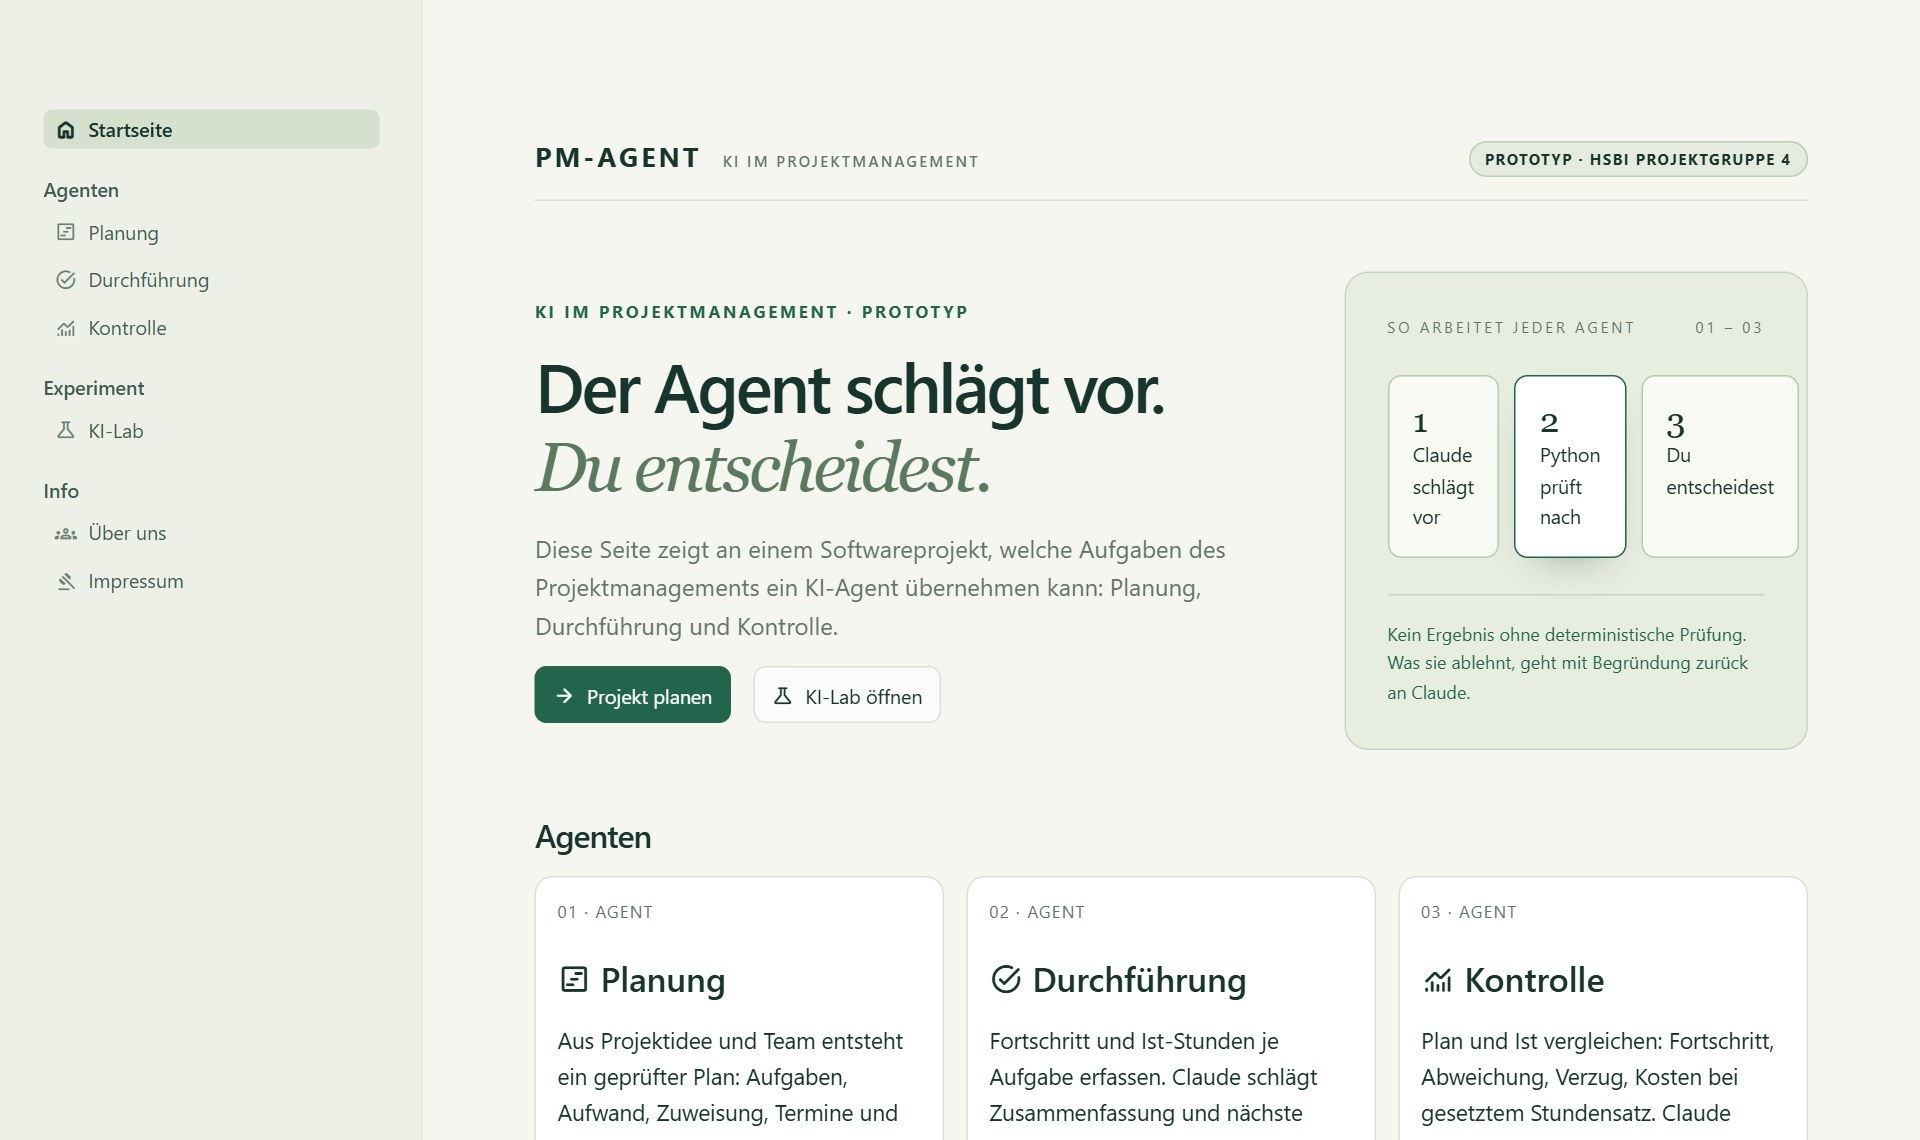
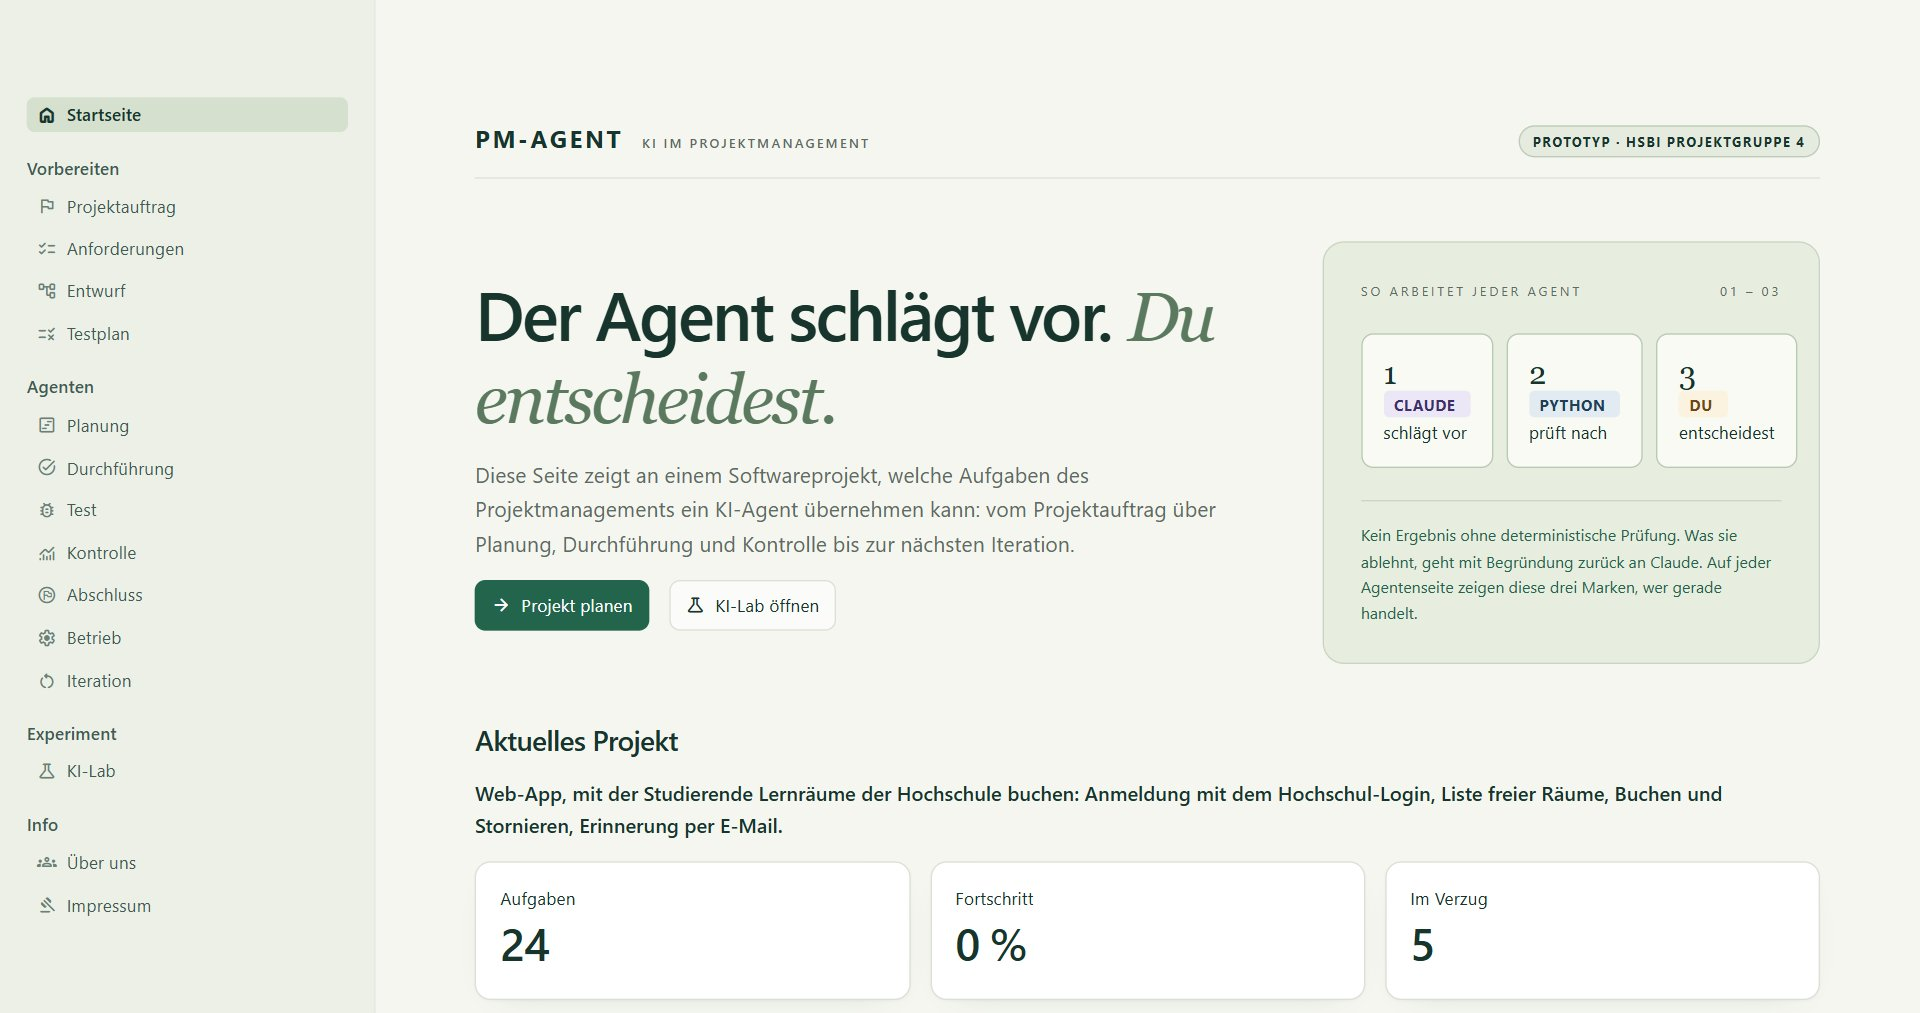
docs: README with the current state and new screenshots
- "Stand und Grenzen" said planning was the only agent run against the
  real API; on 18.11.2026 all agents ran once without error. Only the
  absence a wish names (set_absence) has not run live.
- The menu, the folder table and "Worum es geht" named three agents;
  the site has all eleven steps from Projektauftrag to Iteration.
- Screenshots retaken from the polished site (19.11.2026), alt texts
  and the numbers in the text follow them. The tour GIF showed the old
  three-agent menu and is removed; no new recording was made.
- Kontrolle: "Ein Lauf ist ein Aufruf eines der drei Agenten" now says
  "eines Agenten"; the table counts all of them.

diff --git a/04-Prototyp/pm_agent/views/kontrolle.py b/04-Prototyp/pm_agent/views/kontrolle.py
@@ -557,7 +557,7 @@ with st.container(border=True, key="panel-effort"):
     if runs:
         st.dataframe(pd.DataFrame(runs), hide_index=True)
         st.caption(
-            "Ein Lauf ist ein Aufruf eines der drei Agenten. Token-Kosten in Euro werden nicht "
+            "Ein Lauf ist ein Aufruf eines Agenten. Token-Kosten in Euro werden nicht "
             "berechnet: Preise sind in der Anwendung nicht hinterlegt."
         )
     else:

diff --git a/README.md b/README.md
@@ -18,7 +18,7 @@ Claude schlägt vor. Python prüft nach. Die Projektleitung entscheidet.
 [Schnellstart](#schnellstart) ·
 [Stand und Grenzen](#stand-und-grenzen)
 
-<img src="04-Prototyp/pm_agent/assets/screenshots/startseite.jpg" width="900" alt="Startseite der Website: Überschrift „Der Agent schlägt vor. Du entscheidest.“, daneben die drei Schritte Claude schlägt vor, Python prüft nach, Du entscheidest">
+<img src="04-Prototyp/pm_agent/assets/screenshots/startseite.jpg" width="900" alt="Startseite der Website: links das Menü mit Vorbereiten, Agenten, Experiment und Info, Überschrift „Der Agent schlägt vor. Du entscheidest.“, daneben die drei Schritte Claude schlägt vor, Python prüft nach, Du entscheidest; darunter das aktuelle Projekt mit 24 Aufgaben, 0 % Fortschritt und 5 im Verzug">
 
 </div>
 
@@ -36,6 +36,9 @@ und wo er es nicht sollte:
   Termine und Risiken ableiten.
 - **Durchführung:** den Stand zusammenfassen und nächste Schritte vorschlagen.
 - **Kontrolle:** Plan und Ist vergleichen, Verzug bewerten, Gegenmaßnahmen vorschlagen.
+- **Davor und danach:** Projektauftrag, Anforderungen, Entwurf und Testplan vor der Planung;
+  Test, Abschluss mit Lessons Learned, Betrieb und der nächste Durchlauf danach. Jeder Schritt
+  folgt demselben Muster wie die Planung.
 - **Experiment:** im KI-Lab dieselbe Art von Planungsaufgabe einmal ohne und einmal mit
   KI-Hilfe bearbeiten, mit Zeitlimit und Protokoll.
 
@@ -85,16 +88,12 @@ Ausgabe-Token, Modell `claude-opus-5-5`. Projekt (Web-App zum Buchen von Lernrä
 
 ## Die Website
 
-Eine Streamlit-Anwendung mit dem Menü Startseite, Agenten (Planung, Durchführung, Kontrolle),
-KI-Lab, Über uns und Impressum. Sie läuft nur auf dem eigenen Rechner.
-
-<div align="center">
-<img src="04-Prototyp/pm_agent/assets/screenshots/rundgang.gif" width="820" alt="Rundgang durch die laufende Website in 40 Sekunden: Startseite mit den drei Agenten, Planung mit einem geöffneten protokollierten Lauf, Terminplan als Gantt-Diagramm und eine Aufgabe im Detail, Durchführung mit den nächsten fünf Arbeitstagen, Kontrolle mit Prognose und Earned Value">
-</div>
-
-<sub>Rundgang in 40 Sekunden, aufgenommen aus der laufenden Website mit dem Beispielprojekt:
-Startseite, Planung mit einem protokollierten Lauf, Durchführung, Kontrolle. Ein neuer Lauf mit
-Claude ist nicht dabei; den zeigt der Abschnitt „Ein echter Lauf“.</sub>
+Eine Streamlit-Anwendung, die nur auf dem eigenen Rechner läuft. Das Menü folgt dem Ablauf eines
+Softwareprojekts: Startseite; Vorbereiten (Projektauftrag, Anforderungen, Entwurf, Testplan);
+Agenten (Planung, Durchführung, Test, Kontrolle, Abschluss, Betrieb, Iteration); Experiment
+(KI-Lab); Info (Über uns, Impressum). Über jeder dieser Seiten steht der Projektpfad mit allen
+elf Schritten und darunter, was als Nächstes zu tun ist. Die Screenshots zeigen das erfundene
+Beispielprojekt vom 19.11.2026.
 
 ### Planung
 
@@ -140,7 +139,7 @@ geben, der den verlangten Skill hat, oder durchspielen, was passiert, wenn die l
 auf dem kritischen Pfad doppelt so lange dauert.
 
 <div align="center">
-<img src="04-Prototyp/pm_agent/assets/screenshots/planung-gespraech.jpg" width="820" alt="Schritt Anpassen: oben das Feld „Mit Claude ändern“ mit einem vorgeschlagenen Wunsch und der Eingabezeile, darunter die Tabelle zum Ändern von Hand">
+<img src="04-Prototyp/pm_agent/assets/screenshots/planung-gespraech.jpg" width="820" alt="Schritt Anpassen: Bereich „Mit Claude ändern“ mit den Rollen Claude, Python und Du, einem aus der Prüfung vorgeschlagenen Wunsch als Schaltfläche und der Eingabezeile">
 </div>
 
 ### Durchführung und Kontrolle
@@ -154,13 +153,13 @@ Verzug behandelt.
 
 Die Kontrolle sagt auch, was ein Verzug bedeutet. Die **Prognose** plant alles, was noch nicht
 fertig ist, ab heute neu ein und vergleicht das Ende mit Plan und Deadline. Im Beispiel unten
-sind zwei Aufgaben ein bis zwei Tage im Verzug; die Folge ist ein Ende vier Arbeitstage nach
-Plan und einen Tag nach der Deadline. Die Fortschrittstabelle der Durchführung zeigt dasselbe je
+ist noch kein Fortschritt erfasst, fünf Aufgaben sind über ihr geplantes Ende; die Folge ist ein
+Ende acht Arbeitstage nach Plan und sechs Arbeitstage nach der Deadline. Die Fortschrittstabelle der Durchführung zeigt dasselbe je
 Aufgabe: „Prognose Ende“ neben dem geplanten Ende. Darüber steht, was daraus für die Woche folgt:
 wer in den nächsten fünf Arbeitstagen womit beginnt.
 
 <div align="center">
-<img src="04-Prototyp/pm_agent/assets/screenshots/durchfuehrung.jpg" width="820" alt="Seite Durchführung: Marken „1 von 18 Aufgaben fertig“, „0 in Arbeit“, „2 im Verzug“, der Fortschrittsbalken und der Bereich „Die nächsten fünf Arbeitstage“ mit fünf Aufgaben je Person samt Beginn, Ende und Status">
+<img src="04-Prototyp/pm_agent/assets/screenshots/durchfuehrung.jpg" width="820" alt="Seite Durchführung: oben der Projektpfad und „Jetzt dran“ mit dem Knopf zur Kontrolle, dann die Marken „0 von 24 Aufgaben fertig“, „0 in Arbeit“, „5 im Verzug“, der Fortschrittsbalken und der Bereich „Die nächsten fünf Arbeitstage“ mit der Demo der Woche und fünf Aufgaben samt Beginn, Ende und Status">
 </div>
 
 Von dort geht es zurück in die Planung: „Rest mit Claude umplanen“ lädt die unfertigen Aufgaben
@@ -186,7 +185,7 @@ Fertigstellungswert und Ist-Stunden, daraus SPI und CPI, mit der Kurve des Planw
 Laufzeit.
 
 <div align="center">
-<img src="04-Prototyp/pm_agent/assets/screenshots/kontrolle-earned-value.jpg" width="820" alt="Bereich Earned Value auf der Seite Kontrolle: Planwert bis heute 41,6 h, Fertigstellungswert 4 h, Ist-Stunden 5 h, SPI 0,10 und CPI 0,80; darunter die Kurve des Planwerts vom 09.11. bis zum 15.12. mit den beiden Punkten für heute">
+<img src="04-Prototyp/pm_agent/assets/screenshots/kontrolle-earned-value.jpg" width="820" alt="Bereich Earned Value auf der Seite Kontrolle: Planwert bis heute 76,5 h, Fertigstellungswert 0 h, Ist-Stunden 0 h, SPI 0,00, CPI nicht berechenbar, weil keine Ist-Stunden erfasst sind; darunter die Kurve des Planwerts vom 09.11. bis zum 15.12. mit den Punkten für heute">
 </div>
 
 Alles zusammen gibt es als **Kontrollbericht**: ein Markdown-Dokument aus einer Vorlage mit
@@ -194,7 +193,7 @@ Kennzahlen, Prognose, Verzug, Kosten und, wenn erstellt, der Bewertung des Agent
 nachgerechneter Wirkung.
 
 <div align="center">
-<img src="04-Prototyp/pm_agent/assets/screenshots/kontrolle.jpg" width="820" alt="Prognose auf der Seite Kontrolle: voraussichtliches Ende 21.12.2026, vier Arbeitstage nach Plan, Deadline um einen Arbeitstag verpasst; welche Aufgaben die beiden verspäteten aufhalten; Diagramm mit Plan und Prognose je Aufgabe und Linien für heute und die Deadline">
+<img src="04-Prototyp/pm_agent/assets/screenshots/kontrolle.jpg" width="820" alt="Prognose auf der Seite Kontrolle: voraussichtliches Ende 28.12.2026, acht Arbeitstage nach Plan, Deadline um sechs Arbeitstage verpasst; die drei verspäteten Aufgaben, die andere aufhalten; der Knopf „Rest mit Claude umplanen“; Diagramm mit Plan und Prognose je Aufgabe und Linien für heute und die Deadline">
 </div>
 
 ### KI-Lab
@@ -241,7 +240,7 @@ Einzelheiten zu Seiten, Agenten und Entwicklung:
 | `01-Projektplanung` | Projektplan der Gruppe | noch leer |
 | `02-Recherche` | Recherche zu KI im Projektmanagement | noch leer |
 | `03-Experiment` | Aufbau und Daten des Vergleichs | noch leer |
-| [`04-Prototyp/pm_agent`](04-Prototyp/pm_agent) | die Website mit den drei Agenten | in Arbeit |
+| [`04-Prototyp/pm_agent`](04-Prototyp/pm_agent) | die Website mit allen Schritten vom Projektauftrag bis zur Iteration | in Arbeit |
 | [`04-Prototyp/ki_lab`](04-Prototyp/ki_lab) | Studienserver für den Vergleich ohne und mit KI | in Arbeit |
 | `05-Ergebnisse` | Auswertung und Bericht | noch leer |
 
@@ -251,9 +250,9 @@ Einzelheiten zu Seiten, Agenten und Entwicklung:
 
 | Teil | Stand |
 |---|---|
-| Erster Plan mit Claude | gegen die echte API gelaufen (Protokoll vom 11.11.2026) |
-| Plan im Gespräch ändern | gebaut und ohne Netz getestet; **noch nicht gegen die echte API gelaufen** |
-| Agenten für Durchführung und Kontrolle | Gerüst mit je einem Werkzeug und einer Prüfung; **noch nicht gegen die echte API gelaufen** |
+| Erster Plan mit Claude | gegen die echte API gelaufen (Protokolle vom 11.11. und 18.11.2026) |
+| Alle übrigen Agenten | am 18.11.2026 je einmal ohne Fehler gegen die echte API gelaufen: Projektauftrag, Anforderungen, Entwurf, Testplan, Plan im Gespräch ändern, Durchführung, Kontrolle, Lessons Learned |
+| Abwesenheit aus einem Änderungswunsch | gebaut und ohne Netz getestet; **noch nicht gegen die echte API gelaufen** |
 | KI-Lab | eingebettet; Ablauf, Zeitlimit und Export im Browser geprüft, ein erfolgreicher KI-Aufruf noch nicht ([Prüfprotokoll](04-Prototyp/ki_lab/VERIFIKATION.md)) |
 | Vergleich mit Versuchspersonen | steht aus |
 

diff --git a/04-Prototyp/pm_agent/README.md b/04-Prototyp/pm_agent/README.md
@@ -5,9 +5,10 @@ Planungsphase von Softwareprojekten: Aufgaben zerlegen, Aufwand schätzen, nach 
 Verfügbarkeit zuweisen, Terminplan und Risiken ableiten. Die Projektleitung prüft und
 entscheidet.
 
-Stand: Planung mit Claude und deterministischer Prüfung; für Durchführung und Kontrolle steht
-je ein Agent als Gerüst (ein Werkzeug, eine Prüfung), bisher nur offline getestet; das KI-Lab
-(Vergleichsexperiment, `../ki_lab`) ist eingebettet.
+Stand: alle Schritte vom Projektauftrag bis zur Iteration als eigene Seiten, jeder mit Claude
+als Vorschlag, deterministischer Prüfung und Entscheidung der Projektleitung. Alle Agenten liefen
+am 18.11.2026 einmal ohne Fehler gegen die echte API. Das KI-Lab (Vergleichsexperiment,
+`../ki_lab`) ist eingebettet.
 
 ## Oberfläche
 
